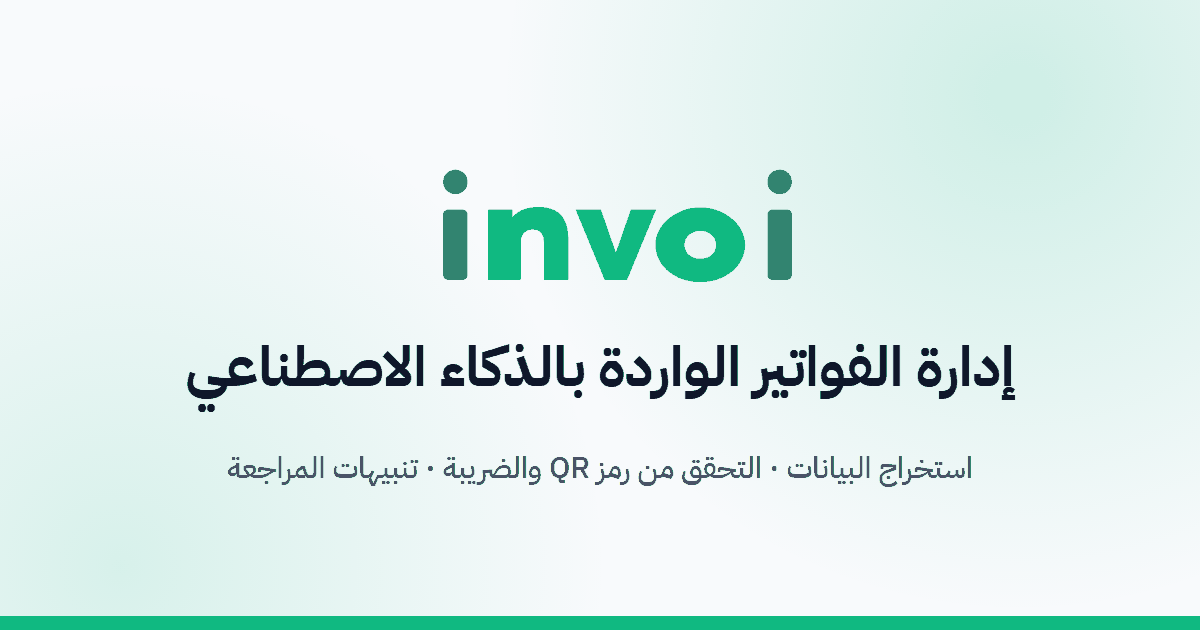
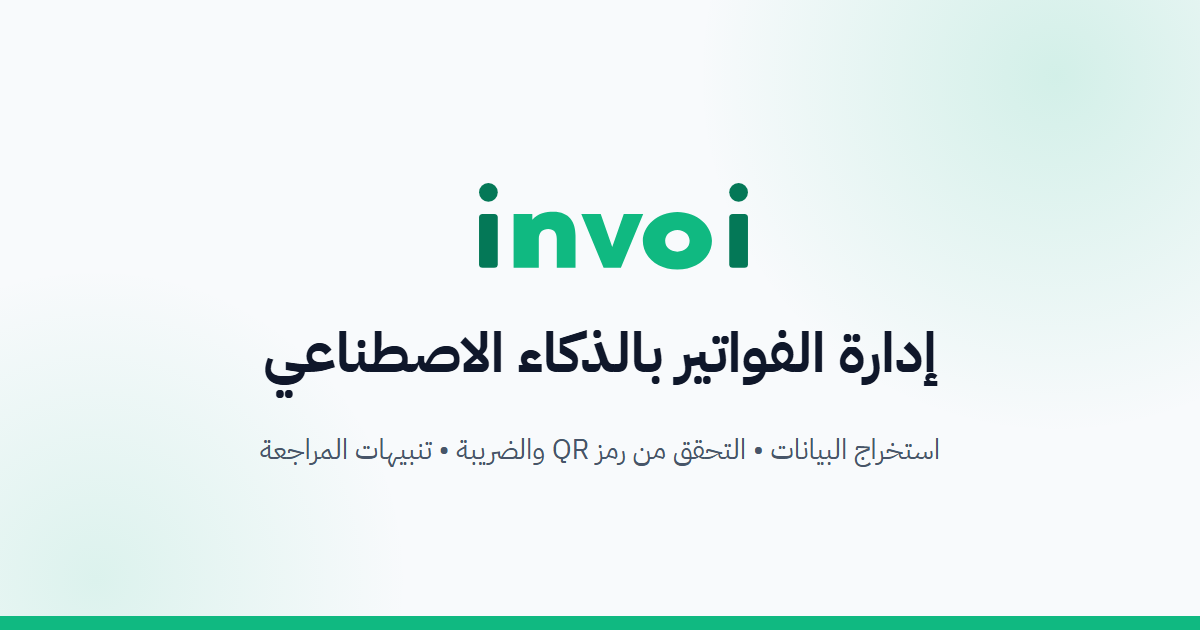
feat(seo): drop 'incoming' from tagline, add Arabic brand name انفوي

Changed region(s): [[0.1542, 0.5127, 0.8633, 0.6635], [0.185, 0.6937, 0.8325, 0.7841], [0.37, 0.2714, 0.6783, 0.4524]]

diff --git a/frontend/index.html b/frontend/index.html
@@ -4,8 +4,8 @@
     <meta charset="UTF-8" />
     <link rel="icon" type="image/svg+xml" href="/invoi-logo-icon_(2).svg" />
     <meta name="viewport" content="width=device-width, initial-scale=1.0" />
-    <title>invoi | إدارة الفواتير الواردة بالذكاء الاصطناعي</title>
-    <meta name="description" content="ارفع فواتيرك الواردة بصيغة PDF أو صورة، ويستخرج invoi بياناتها ويتحقق من رمز QR وضريبة القيمة المضافة، وينبّهك إلى الفواتير التي تحتاج إلى مراجعة." />
+    <title>invoi انفوي | إدارة الفواتير بالذكاء الاصطناعي</title>
+    <meta name="description" content="انفوي (invoi): ارفع فواتيرك بصيغة PDF أو صورة، ويستخرج invoi بياناتها ويتحقق من رمز QR وضريبة القيمة المضافة، وينبّهك إلى الفواتير التي تحتاج إلى مراجعة." />
     <meta name="theme-color" content="#10B981" />
     <link rel="canonical" href="https://invoi.jxtechstudio.com/" />
 
@@ -14,13 +14,24 @@
     <meta property="og:site_name" content="invoi" />
     <meta property="og:locale" content="ar_SA" />
     <meta property="og:url" content="https://invoi.jxtechstudio.com/" />
-    <meta property="og:title" content="invoi | إدارة الفواتير الواردة بالذكاء الاصطناعي" />
-    <meta property="og:description" content="ارفع فواتيرك الواردة، ويستخرج invoi بياناتها ويتحقق منها وينبّهك إلى ما يحتاج إلى مراجعة." />
+    <meta property="og:title" content="invoi انفوي | إدارة الفواتير بالذكاء الاصطناعي" />
+    <meta property="og:description" content="ارفع فواتيرك، ويستخرج invoi بياناتها ويتحقق منها وينبّهك إلى ما يحتاج إلى مراجعة." />
     <meta property="og:image" content="https://invoi.jxtechstudio.com/og-image.png" />
     <meta property="og:image:width" content="1200" />
     <meta property="og:image:height" content="630" />
-    <meta property="og:image:alt" content="شعار invoi مع عبارة: إدارة الفواتير الواردة بالذكاء الاصطناعي" />
+    <meta property="og:image:alt" content="شعار invoi مع عبارة: إدارة الفواتير بالذكاء الاصطناعي" />
     <meta name="twitter:card" content="summary_large_image" />
+
+    <!-- Site name for Google results; alternateName lets Arabic searches (انفوي / إنفوي) match the brand -->
+    <script type="application/ld+json">
+      {
+        "@context": "https://schema.org",
+        "@type": "WebSite",
+        "name": "invoi",
+        "alternateName": ["انفوي", "إنفوي"],
+        "url": "https://invoi.jxtechstudio.com/"
+      }
+    </script>
 
     <!-- Fonts load from the HTML (not a CSS @import) so the request starts before the bundle -->
     <link rel="preconnect" href="https://fonts.googleapis.com" />
